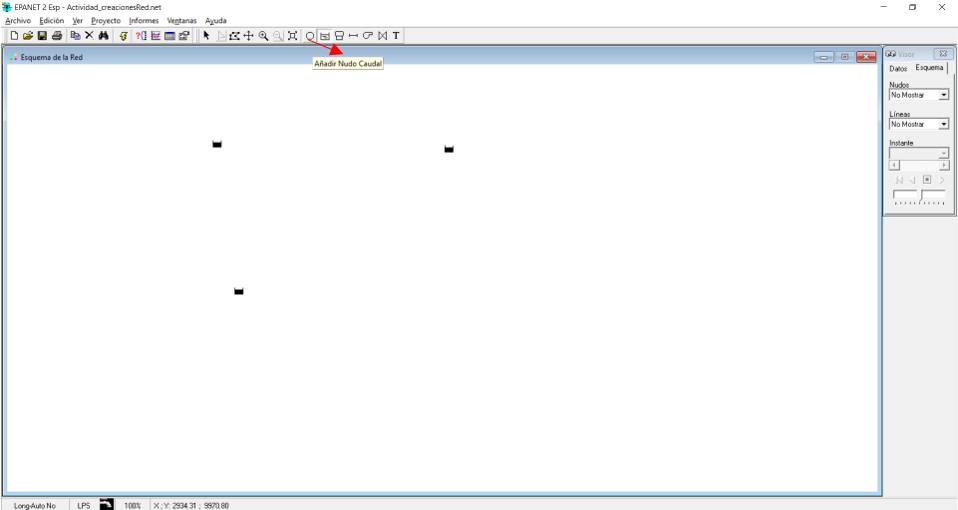
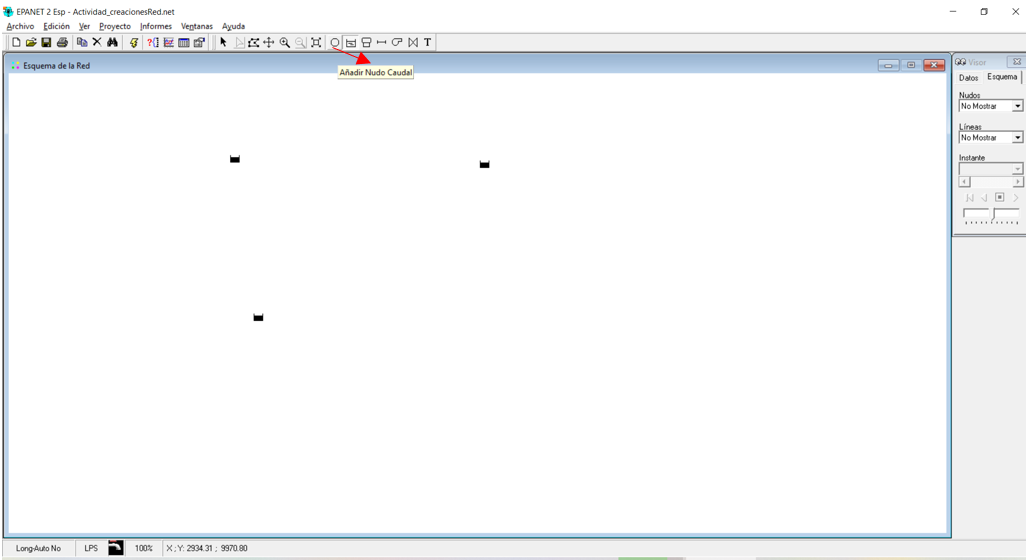
Actualización de los módulos de clase2

diff --git a/ModulosClases/ModuloNo.2/Trazado_red_EPANET.md b/ModulosClases/ModuloNo.2/Trazado_red_EPANET.md
@@ -138,7 +138,7 @@ _d.Con el siguiente link convertir la imagen descargada de Google Earth y guarda
 _e.Desde el EPANET, en la barra de herramientas Ver, seleccionar la opción "Mapa de Fondo" y seleccionar la subcategoría "Cargar"_ 
 
 <div align="center">
-  <img src="Imagenes/FiguraNo.2.35.PNG" width="100px">
+  <img src="Imagenes/FiguraNo.2.35.PNG" width="700px">
 </div>
 
 _f. Buscar la ubicación del archivo y cargarlo al EPANET_ 
